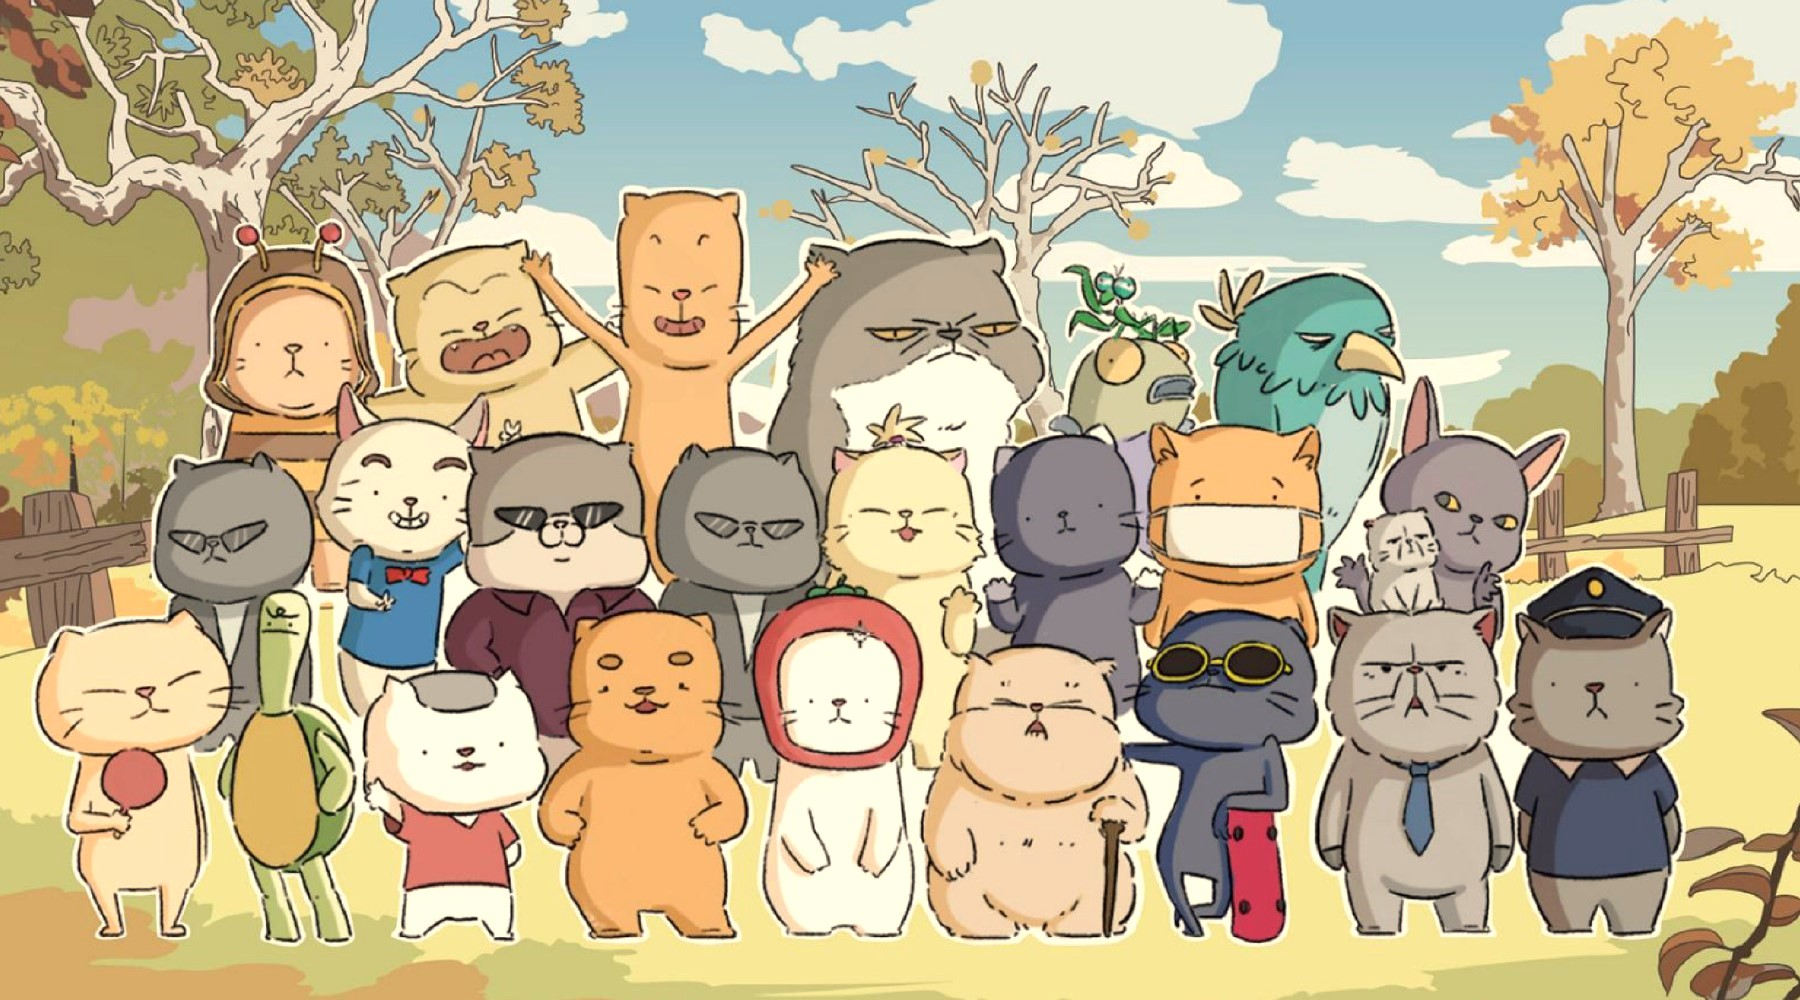
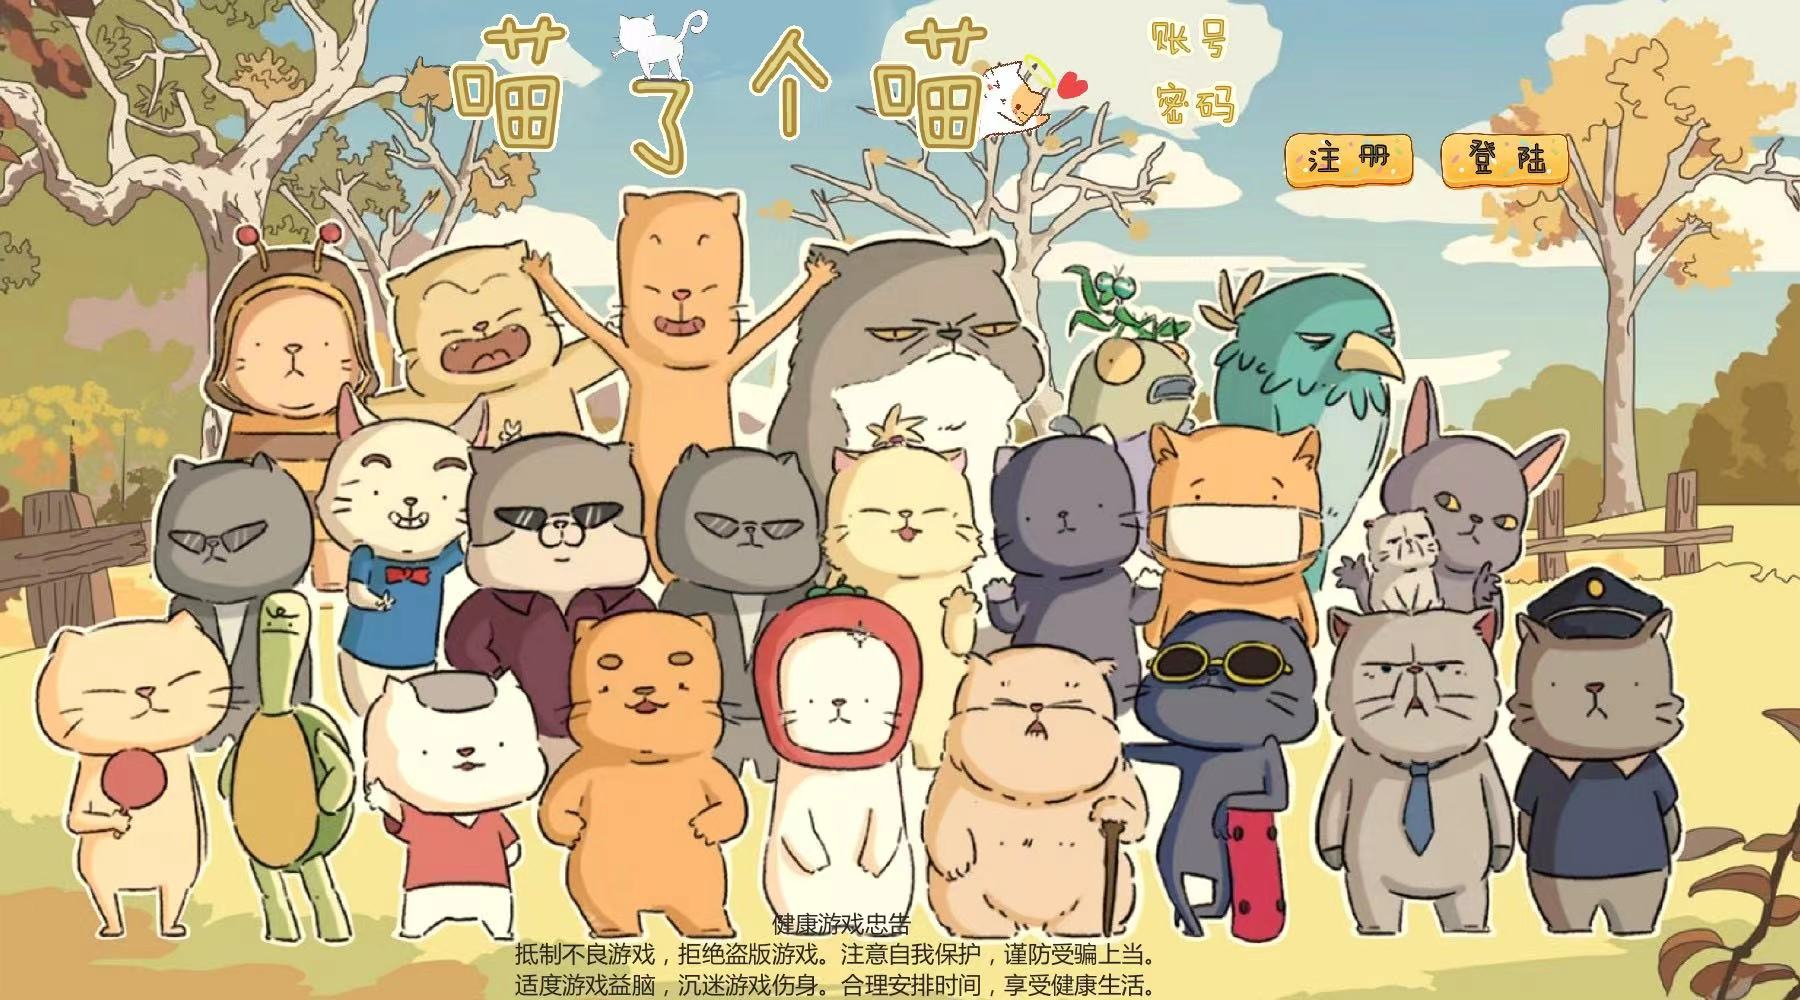
changes

diff --git a/JoyfulMatch/GameCover.java b/JoyfulMatch/GameCover.java
@@ -1,45 +1,61 @@
 package JoyfulMatch;
 
 import javax.swing.JFrame;
-import javax.swing.JPanel;
+import javax.swing.JPasswordField;
 import javax.swing.JTextField;
 import javax.swing.ImageIcon;
 import javax.swing.JButton;
 import javax.swing.JLabel;
-import java.awt.BorderLayout;
-import java.awt.event.ActionListener;
+import javax.swing.JOptionPane;
 
+import java.awt.BorderLayout;
+import java.awt.event.ActionEvent;
+import java.awt.event.ActionListener;
+import java.sql.Connection;
+import java.sql.DriverManager;
+import java.sql.PreparedStatement;
+import java.sql.ResultSet;
+import java.sql.SQLException;
 
 public class GameCover extends JFrame {
-    private JButton startButton;
+    // private JButton startButton;
     private JLabel background;
     private JLabel worning;
     private ImageIcon image1;
     private ImageIcon image2;
     private ImageIcon image3;
+    private ImageIcon image4;
     private JTextField account;
+    private JPasswordField password;
+    private JButton signUp;
+    private JButton logIn;
 
     public GameCover() {
         initializeComponents();
         createGUI();
-        // setLinstener();
+        setLinstener();
     }
-    
+    //initalize
     private void initializeComponents() {
-        image1 = new ImageIcon("E:/Github_Project/JoyfulMatch/Utilities/background5.jpg");
+        image1 = new ImageIcon("E:/Github_Project/JoyfulMatch/Utilities/background4.jpg");
         background = new JLabel(image1);
-        image2 = new ImageIcon("E:/Github_Project/JoyfulMatch/Utilities/start.png");
-        startButton = new JButton(image2);
-        image3 = new ImageIcon("E:/Github_JoyfulMatch/Github_Project/JoyfulMatch/Utilities/worning2.png");
-        worning = new JLabel(image3);
+        image2 = new ImageIcon("E:/Github_JoyfulMatch/Github_Project/JoyfulMatch/Utilities/logIn.png");
+        logIn = new JButton(image2);
+        image3 = new ImageIcon("E:/Github_JoyfulMatch/Github_Project/JoyfulMatch/Utilities/signUp.png");
+        signUp = new JButton(image3);
+        image4 = new ImageIcon("E:/Github_JoyfulMatch/Github_Project/JoyfulMatch/Utilities/worning2.png");
+        worning = new JLabel(image4);
         account = new JTextField(10);
+        password = new JPasswordField(10);
+
+
     }
     
     private void createGUI() {
         // 设置窗体大小并显示
         setTitle("喵了个喵");
         setDefaultCloseOperation(JFrame.EXIT_ON_CLOSE);
-        setSize(image1.getIconWidth(), image1.getIconHeight()); //img 大小为：1800x1000
+        setSize(1850, 1050); //img 大小为：1800x1000
         setVisible(true);
         setLocationRelativeTo(null);  // 将窗口居中显示
         
@@ -47,17 +63,81 @@ public class GameCover extends JFrame {
 
         // 在gamePanel中添加游戏区域和其他游戏元素的组件
         setContentPane(background);
-        startButton.setBounds(1200, 50, 250, 90);
-        add(startButton);
-        worning.setBounds(1500,100,160,158);
-        add(worning);
-        account.setBounds(100,100,100,10);
+        account.setBounds(1200,30,250,30);
         add(account);
+        password.setBounds(1200, 90, 250, 30);
+        add(password);
+        logIn.setBounds(1392, 139, 130, 53);
+        add(logIn);
+        signUp.setBounds(1239, 139, 130, 53);
+        add(signUp);
+        worning.setBounds(1050,875,200,200);
+        add(worning);
+       
     }
 
-    public static void main(String[] args) {
-        GameCover gameCover = new GameCover();
-        gameCover.setVisible(true);
+    public void setLinstener(){
+        String Name = account.getText();
+        char[] Password_char = password.getPassword();
+        String Password = new String(Password_char);
+        // String Password = password.fetPassword().toString(),返回的是char数组默认的字符串，而并非密码中的内容  
+
+        signUp.addActionListener(new ActionListener() {
+            @Override
+            public void actionPerformed(ActionEvent e) {                
+                // 在这里将Name和Password插入到数据库的user表中
+                // 例如使用JDBC进行数据库操作
+                //加入serverTime时区为东八区
+                try (Connection connection = DriverManager.getConnection("jdbc:mysql://localhost:3306/joyful_match?serverTimezone=Asia/Shanghai", "root", "12345678")) {
+                    // 检查用户名是否已存在
+                    String checkQuery = "SELECT * FROM user WHERE name = ?";
+                    PreparedStatement checkStatement = connection.prepareStatement(checkQuery);
+                    checkStatement.setString(1, Name);
+                    ResultSet checkResultSet = checkStatement.executeQuery();
+    
+                    if (checkResultSet.next()) {
+                        // 用户名已存在，弹出警告框
+                        JOptionPane.showMessageDialog(null, "Username already exists", "Registration Failed", JOptionPane.WARNING_MESSAGE);
+                    } else {
+                        // 用户名不存在，执行插入操作
+                        String insertQuery = "INSERT INTO user (name, password) VALUES (?, ?)";
+                        PreparedStatement insertStatement = connection.prepareStatement(insertQuery);
+                        insertStatement.setString(1, Name);
+                        insertStatement.setString(2, Password);
+                        insertStatement.executeUpdate();
+                        // 插入成功的处理逻辑
+                        JOptionPane.showMessageDialog(null, "Registration successful", "Registration", JOptionPane.INFORMATION_MESSAGE);
+                    }
+                } catch (SQLException ex) {
+                    ex.printStackTrace();
+                    // 数据库操作失败的处理逻辑
+                }
+            }
+        });
+        logIn.addActionListener(new ActionListener() {
+            @Override
+            public void actionPerformed(ActionEvent e) {
+            try (Connection connection = DriverManager.getConnection("jdbc:mysql://localhost:3306/joyful_match?serverTimezone=Asia/Shanghai", "root", "12345678")) {
+                String query = "SELECT * FROM user WHERE name = ? AND password = ?";
+                PreparedStatement statement = connection.prepareStatement(query);
+                statement.setString(1, Name);
+                statement.setString(2, Password);
+                ResultSet resultSet = statement.executeQuery();
+                if (resultSet.next()) {
+                    // 用户名和密码匹配，进行游戏跳转等操作
+                    JOptionPane.showMessageDialog(null, "successful", "Login successful", JOptionPane.INFORMATION_MESSAGE);
+                } else {
+                    // 用户名和密码不匹配，弹出警告框
+                    JOptionPane.showMessageDialog(null, "Invalid username or password", "Login Failed", JOptionPane.WARNING_MESSAGE);
+                }
+            } catch (SQLException ex) {
+                ex.printStackTrace();
+                // 数据库操作失败的处理逻辑
+            }
+
+            }
+        });
+
     }
 }
 
